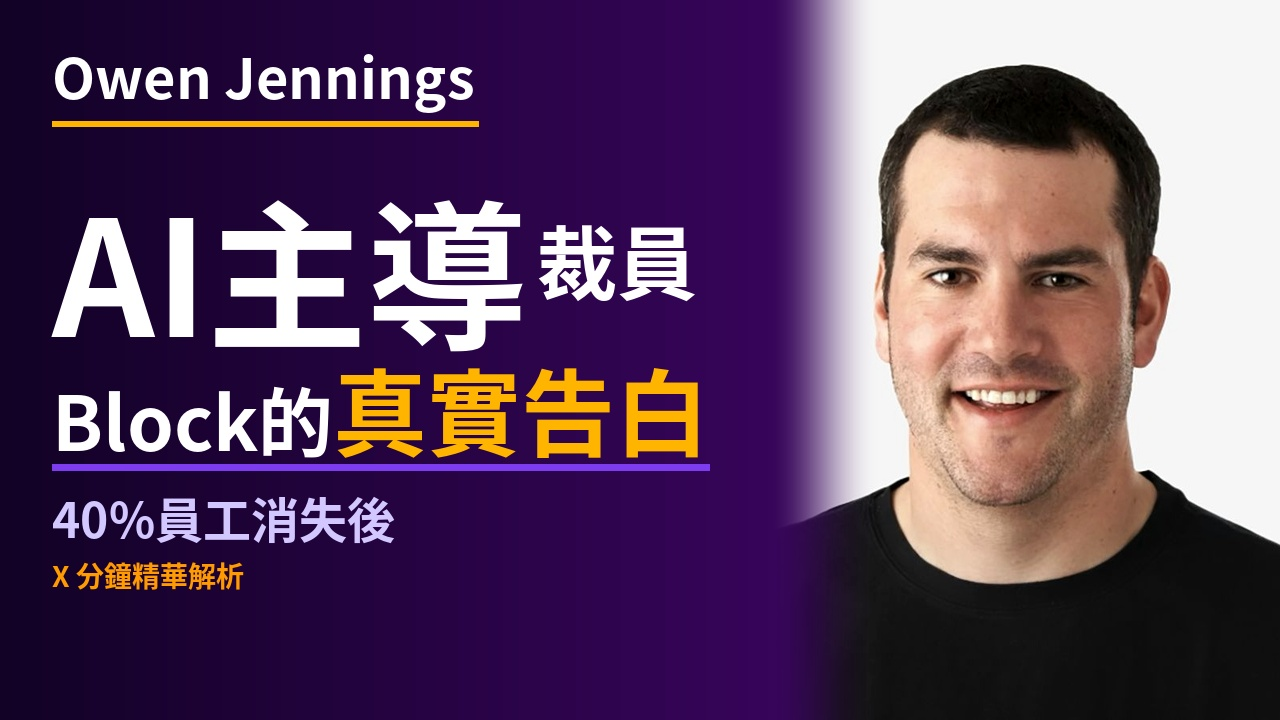
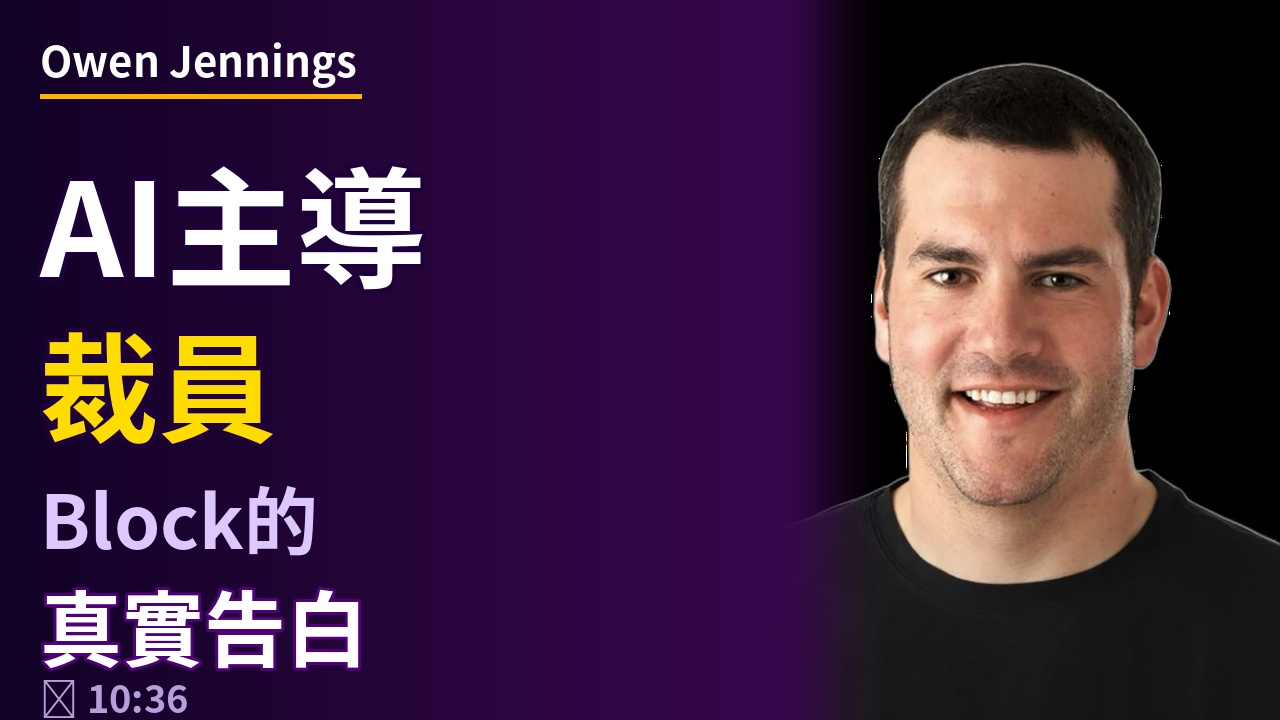
block_ai: final (purple thumbnail + YT meta + spotify)

diff --git a/block_ai/index.html b/block_ai/index.html
@@ -98,23 +98,24 @@ footer a { color: #3a5a7a; }
 <h1>94iVoice — block_ai <span class="badge stage">🎬 Stage 審閱中</span></h1>
 <div class="notice"><strong>🎬 Stage 審閱</strong><br>請確認影片、封面、YouTube 文案，沒問題後告知「確認上傳」。<br>如需修改腳本 → 告知，重跑 TTS 後重建。如只改文案 → 直接說明。</div>
 <div class="section">
-  <div class="section-title">🖼 YouTube 封面提案</div>
-  <div style="font-size:0.82em;color:#666;margin-bottom:16px;">三版封面設計供參考，回覆選擇 A / B / C</div>
-  <div class="thumb-grid">
-    <div class="thumb-proposal">
-      <div class="proposal-label">提案 A</div>
-      <img src="thumb_A.jpg" alt="封面提案 A" loading="lazy">
-      <div class="proposal-desc"></div>
+  <div class="section-title">🖼 YouTube 封面</div>
+  <div style="display:grid;grid-template-columns:1.6fr 1fr;gap:20px;align-items:start;">
+    <div>
+      <a href="thumbnail.jpg" target="_blank">
+        <img src="thumbnail.jpg" style="width:100%;border-radius:8px;border:1px solid #2a2a2a;" loading="lazy">
+      </a>
+      <a href="thumbnail.jpg" download="thumbnail.jpg"
+         style="display:inline-block;margin-top:10px;padding:8px 18px;background:#1e1e1e;border:1px solid #333;border-radius:6px;color:#aaa;text-decoration:none;font-size:0.82em;">
+        ⬇ 下載封面
+      </a>
     </div>
-    <div class="thumb-proposal">
-      <div class="proposal-label">提案 B</div>
-      <img src="thumb_B.jpg" alt="封面提案 B" loading="lazy">
-      <div class="proposal-desc"></div>
-    </div>
-    <div class="thumb-proposal">
-      <div class="proposal-label">提案 C</div>
-      <img src="thumb_C.jpg" alt="封面提案 C" loading="lazy">
-      <div class="proposal-desc"></div>
+    <div style="background:#111;border:1px solid #222;border-radius:10px;padding:18px;font-size:0.82em;line-height:2;">
+      <div style="color:#555;font-size:0.72em;letter-spacing:1.2px;text-transform:uppercase;margin-bottom:10px;">設計說明</div>
+      <div><span style="color:#555;">Speaker</span> </div>
+      <div><span style="color:#555;">大標</span> <span style="color:#fff;font-weight:700;"></span> </div>
+      <div><span style="color:#555;">主文</span>  <span style="color:#FFD700;font-weight:700;"></span></div>
+      <div><span style="color:#555;">副標</span> </div>
+      <div><span style="color:#555;">時長</span> </div>
     </div>
   </div>
 </div>
@@ -198,14 +199,97 @@ footer a { color: #3a5a7a; }
   <a href="thumbnail.jpg">🖼 YouTube 封面</a>
   <a href="audio.mp3" style="opacity:0.35;pointer-events:none;">🎙 TTS 音檔</a>
   <a href="audio_spotify.mp3" style="opacity:0.35;pointer-events:none;">🎵 Spotify 音訊</a>
-  <a href="cover_spotify.jpg" style="opacity:0.35;pointer-events:none;">🟢 Spotify 封面</a>
+  <a href="cover_spotify.jpg">🟢 Spotify 封面</a>
   <a href="script_clean.txt">✍ 中文腳本</a>
   <a href="script_tts.txt" style="opacity:0.35;pointer-events:none;">🔊 TTS 發音稿</a>
   <a href="subtitles.srt">💬 SRT 字幕</a>
   <a href="transcript_en.txt">📄 英文逐字稿</a>
   <a href="transcript_zh.txt">📄 中文翻譯</a>
-  <a href="youtube_meta.json" style="opacity:0.35;pointer-events:none;">📋 YouTube 文案</a>
+  <a href="youtube_meta.json">📋 YouTube 文案</a>
 </div></div>
+<div class="section">
+  <div class="section-title">📋 YouTube 發布設定</div>
+  <div class="yt-section">
+    <div class="yt-header">
+      <span class="yt-logo">▶</span>
+      <h2>YouTube 文案</h2>
+      <span class="yt-pill">🔒 未上傳（私人）</span>
+    </div>
+    <div class="yt-field"><label>標題</label><div class="val title-val">94iVoice｜Block裁員40%背後，AI真的取代工程師了嗎？</div></div>
+    <div class="yt-field"><label>描述</label><div class="val">Block（前Square）一口氣裁掉40%員工，直接說原因是AI。
+但被裁的工程師說：她根本沒感受到AI帶來多少生產力。
+兩件事同時是真的——這是怎麼回事？
+
+本集邀請Block業務負責人Owen Jennings，他親歷了整個決策過程。
+從Goose、BuilderBot到15人→4人的MoneyBot，
+到底AI改變了什麼？又還沒改變什麼？
+
+▶ 如果這類內容對你有幫助，訂閱頻道並開啟小鈴鐺，不錯過下次分享。
+
+【章節】
+0:00 開場
+0:48 裁員的決定
+2:41 AI 怎麼改變了開發方式
+4:28 不只是工程師的故事
+5:51 生成式 UI 的未來
+7:03 最後的護城河
+9:13 裁員之後
+
+【來源】
+Owen Jennings 訪談：https://youtu.be/krdrkl38nRw
+
+#AI #裁員 #Block #Square #人工智能 #科技 #工程師 #愛播客 #94iVoice #未來職場</div></div>
+    <div class="yt-field"><label>標籤</label><div class="yt-tags"><span class="yt-tag">AI</span><span class="yt-tag">裁員</span><span class="yt-tag">Block</span><span class="yt-tag">Square</span><span class="yt-tag">CashApp</span><span class="yt-tag">工程師</span><span class="yt-tag">人工智能</span><span class="yt-tag">科技</span><span class="yt-tag">愛播客</span><span class="yt-tag">94iVoice</span><span class="yt-tag">未來職場</span><span class="yt-tag">生成式AI</span><span class="yt-tag">軟體開發</span><span class="yt-tag">職場</span><span class="yt-tag">Goose</span></div></div>
+  </div>
+</div>
+<div class="section">
+  <div class="section-title">🎙 Spotify Podcast 發布設定</div>
+  <div class="yt-section">
+    <div class="yt-header">
+      <span style="color:#1DB954;font-size:1.4em;">🎵</span>
+      <h2>Spotify Podcast 文案</h2>
+      <span class="yt-pill" style="background:#0d2a1a;color:#1DB954;border-color:#1a4a2a;">Spotify</span>
+    </div>
+    <div style="display:flex;gap:20px;align-items:flex-start;margin-bottom:16px;flex-wrap:wrap;">
+      <img src="cover_spotify.jpg" style="width:140px;height:140px;object-fit:cover;border-radius:8px;border:1px solid #2a2a2a;flex-shrink:0;" loading="lazy">
+      <div style="flex:1;min-width:200px;">
+        <div class="yt-field"><label>集數標題</label><div class="val title-val">94iVoice｜Block裁員40%背後，AI真的取代工程師了嗎？</div></div>
+        <div style="display:flex;gap:10px;flex-wrap:wrap;margin-top:8px;">
+          <span class="pod-dl-btn pod-dl-disabled">⬇ 音訊 MP3 (160kbps)（未生成）</span>
+          <a href="cover_spotify.jpg" download="cover_spotify.jpg" class="pod-dl-btn">⬇ 封面 1400×1400</a>
+        </div>
+      </div>
+    </div>
+    <div class="yt-field"><label>節目描述</label><div class="val" style="max-height:300px;overflow-y:auto;">Block（前Square）一口氣裁掉40%員工，直接說原因是AI。
+但被裁的工程師說：她根本沒感受到AI帶來多少生產力。
+兩件事同時是真的——這是怎麼回事？
+
+本集邀請Block業務負責人Owen Jennings，他親歷了整個決策過程。
+從Goose、BuilderBot到15人→4人的MoneyBot，
+到底AI改變了什麼？又還沒改變什麼？
+
+▶ 如果這類內容對你有幫助，訂閱頻道並開啟小鈴鐺，不錯過下次分享。
+
+【章節】
+
+【來源】
+Owen Jennings 訪談：https://youtu.be/krdrkl38nRw
+
+#AI #裁員 #Block #Square #人工智能 #科技 #工程師 #愛播客 #94iVoice #未來職場</div></div>
+    <div class="yt-field"><label>標籤</label><div class="yt-tags"><span class="yt-tag">AI</span><span class="yt-tag">裁員</span><span class="yt-tag">Block</span><span class="yt-tag">Square</span><span class="yt-tag">CashApp</span><span class="yt-tag">工程師</span><span class="yt-tag">人工智能</span><span class="yt-tag">科技</span><span class="yt-tag">愛播客</span><span class="yt-tag">94iVoice</span><span class="yt-tag">未來職場</span><span class="yt-tag">生成式AI</span><span class="yt-tag">軟體開發</span><span class="yt-tag">職場</span><span class="yt-tag">Goose</span></div></div>
+    <div style="margin-top:14px;padding:10px 14px;background:#0d1a0d;border:1px solid #1a3a1a;border-radius:6px;font-size:0.78em;color:#6a9a6a;line-height:1.8;">
+      📋 <strong>Spotify 規格</strong>：音訊 MP3 · 96–320kbps · 封面 JPEG 1400×1400px（正方形）· 影片 MP4/MOV 1080p H.264（選填）
+    </div>
+    <div style="margin-top:12px;">
+      <a href="https://creators.spotify.com" target="_blank"
+         style="display:inline-flex;align-items:center;gap:8px;padding:10px 20px;
+                background:#1DB954;color:#000;font-weight:700;font-size:0.88em;
+                border-radius:8px;text-decoration:none;">
+        🎙 前往 Spotify for Creators 上傳
+      </a>
+    </div>
+  </div>
+</div>
 <footer>94iVoice 愛播客 Stage 預覽頁 &nbsp;·&nbsp; 來源：<a href="#" target="_blank">原始影片</a></footer>
 </div>
 <script>
